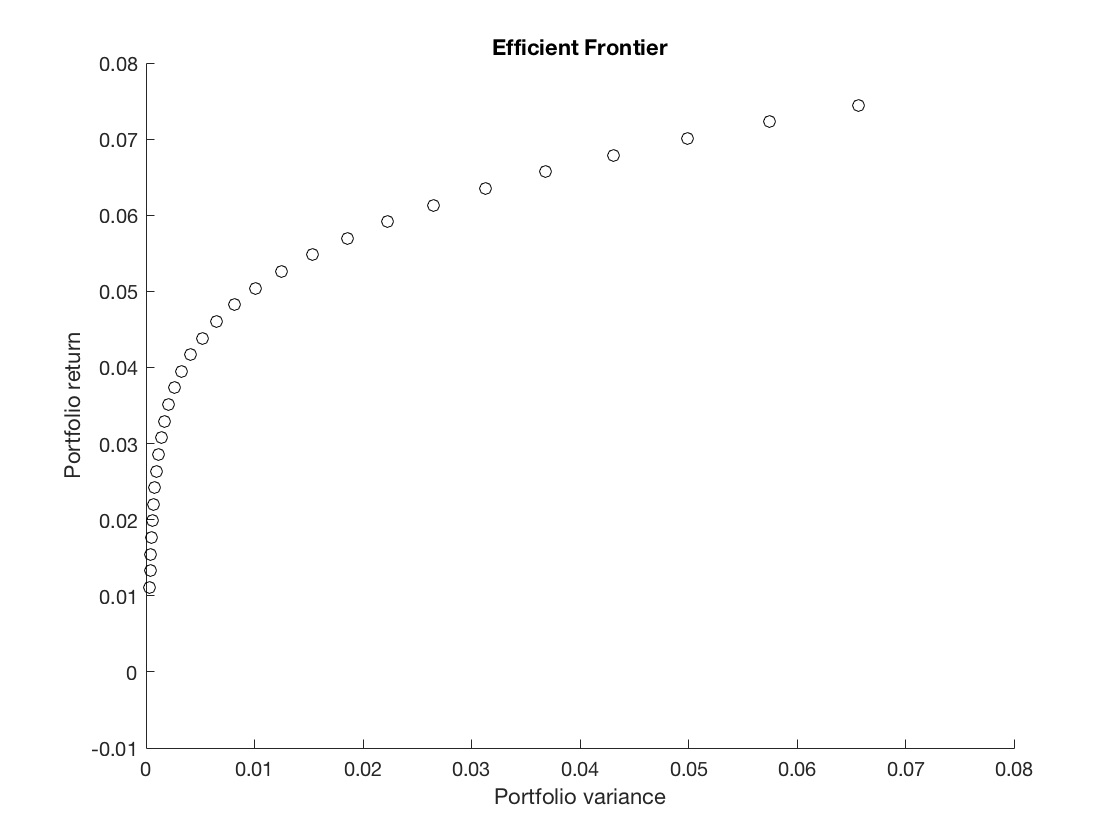
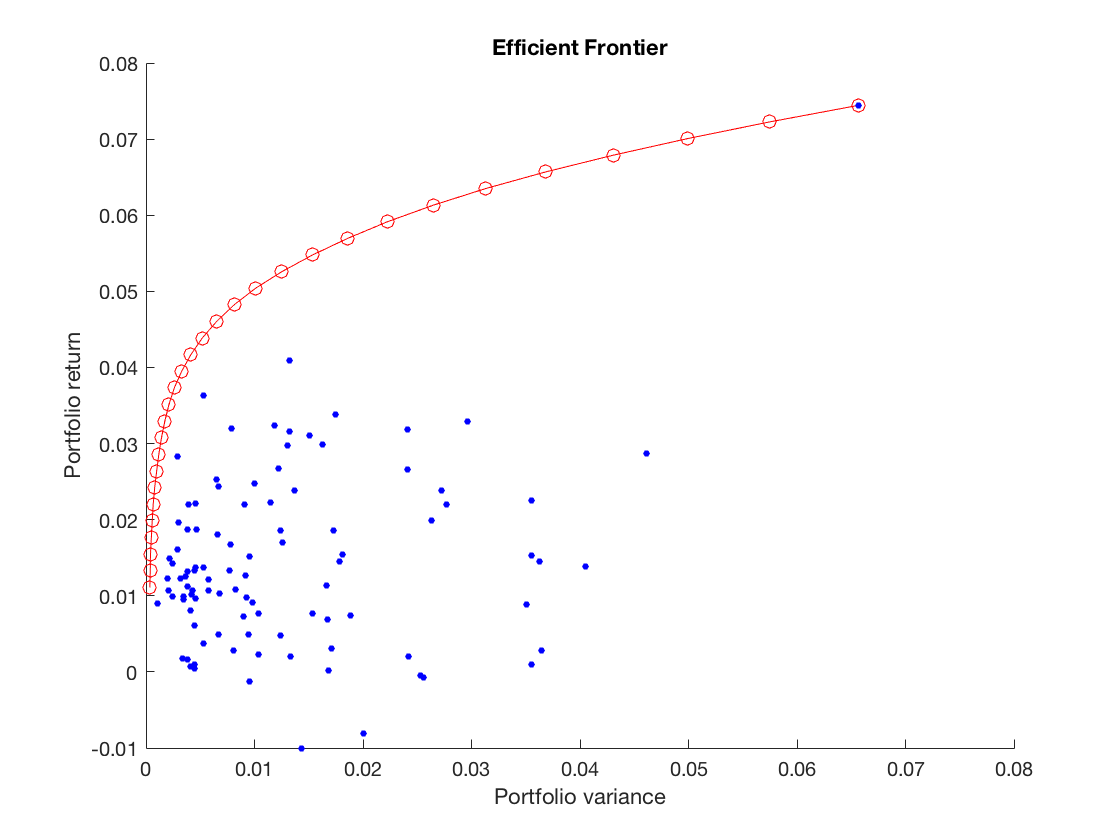
improve scatter plot and excel output file

diff --git a/Assignment 3/Code/mark.m b/Assignment 3/Code/mark.m
@@ -10,11 +10,11 @@ function [  ] = mark(  )
     [~, uB] = bounds(returns, 0);
     
     % Lower bound
-    [rets, lB] = bounds(returns, 1);
+    [lBvec, ~] = bounds(returns, 1);
     
     averages = mean(returns');
     
-    lB = sum(rets.*averages');
+    lB = sum(lBvec.*averages');
         
     
     
@@ -60,14 +60,31 @@ function [  ] = mark(  )
     figure
     axis([0, 0.08, -0.01, 0.08])
     hold on
-    plot(pVars,fVals,'ko')
+    scatter(pVars,fVals,45,'r')
+    plot(pVars,fVals,'-r')
+    s = scatter(vars,averages, 12, 'b', 'filled')
     xlabel('Portfolio variance')
     ylabel('Portfolio return')
     title('Efficient Frontier')
         
-    lB
-    uB
-    xlswrite('../Output/Portfolios', round(Z,4));
+
+    %% Write into Excel file
+    fileName = '../Output/Portfolios';
+    sheetName = 'Portfolios';
+    labels = cell(1,30);
+    stockLabels = cell(100,1);
+    
+    for i = 1:30
+        labels(1,i) = {['Portfolio ', int2str(i)]};
+    end
+    
+    for i = 1:100
+        stockLabels(i,1) = {['Stock ', int2str(1)]};
+    end
+    
+    xlswrite(fileName, labels, sheetName, 'A2');
+    xlswrite(fileName, stockLabels, sheetName, 'B1');  
+    xlswrite(fileName, round(Z,4), sheetName, 'B2');
 
 end
 
